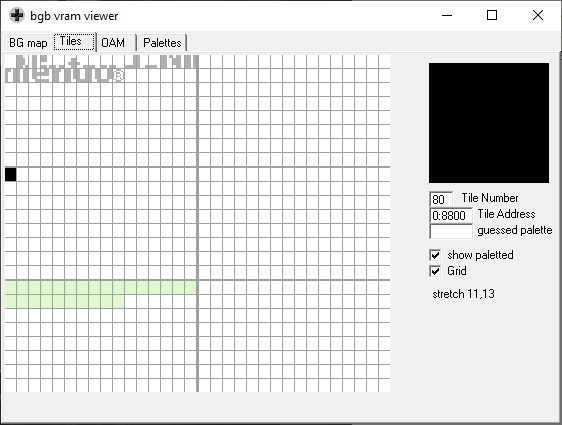
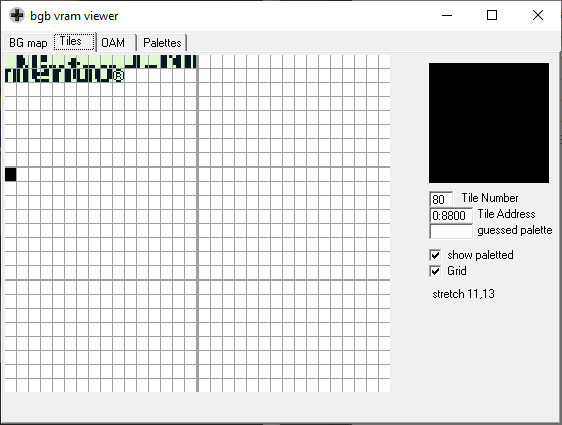
Add load spite from file example

diff --git a/03_LoadBytes/README.md b/03_LoadBytes/README.md
@@ -1,7 +1,20 @@
-In the codes from [Image on VRAM](../02_ImageOnVram) we loaded the sprite bytes line by line. We are now gonna see a most elegant way to load sequential bytes using the `db` instruction.
+*Note: `db` and `INCBIN` may not be recognized by all assemblers. I'm using [RGBDS](github.com/rednex/rgbds).*
 
-*Note: `db` may not be recognized by all assemblers. I'm using [RGBDS](github.com/rednex/rgbds).*
+
+### Using **db** instruction
+
+In the codes from [Image on VRAM](../02_ImageOnVram) we loaded the sprite bytes line by line. We are now gonna see a most elegant way to load sequential bytes using the `db` instruction.
 
 ![Loading bytes using db](define_bytes.png)
 
 As we can see, we get the same result as before, but with a much cleaner code.
+
+
+### Loading from file
+
+Better than having all the sprite bytes wrote into the code, we can define them in files and load them from the file.  
+This can be achieved using the `INCBIN` instruction.
+
+![Loading from file](load_file.png)
+
+Again, we get the same result.
